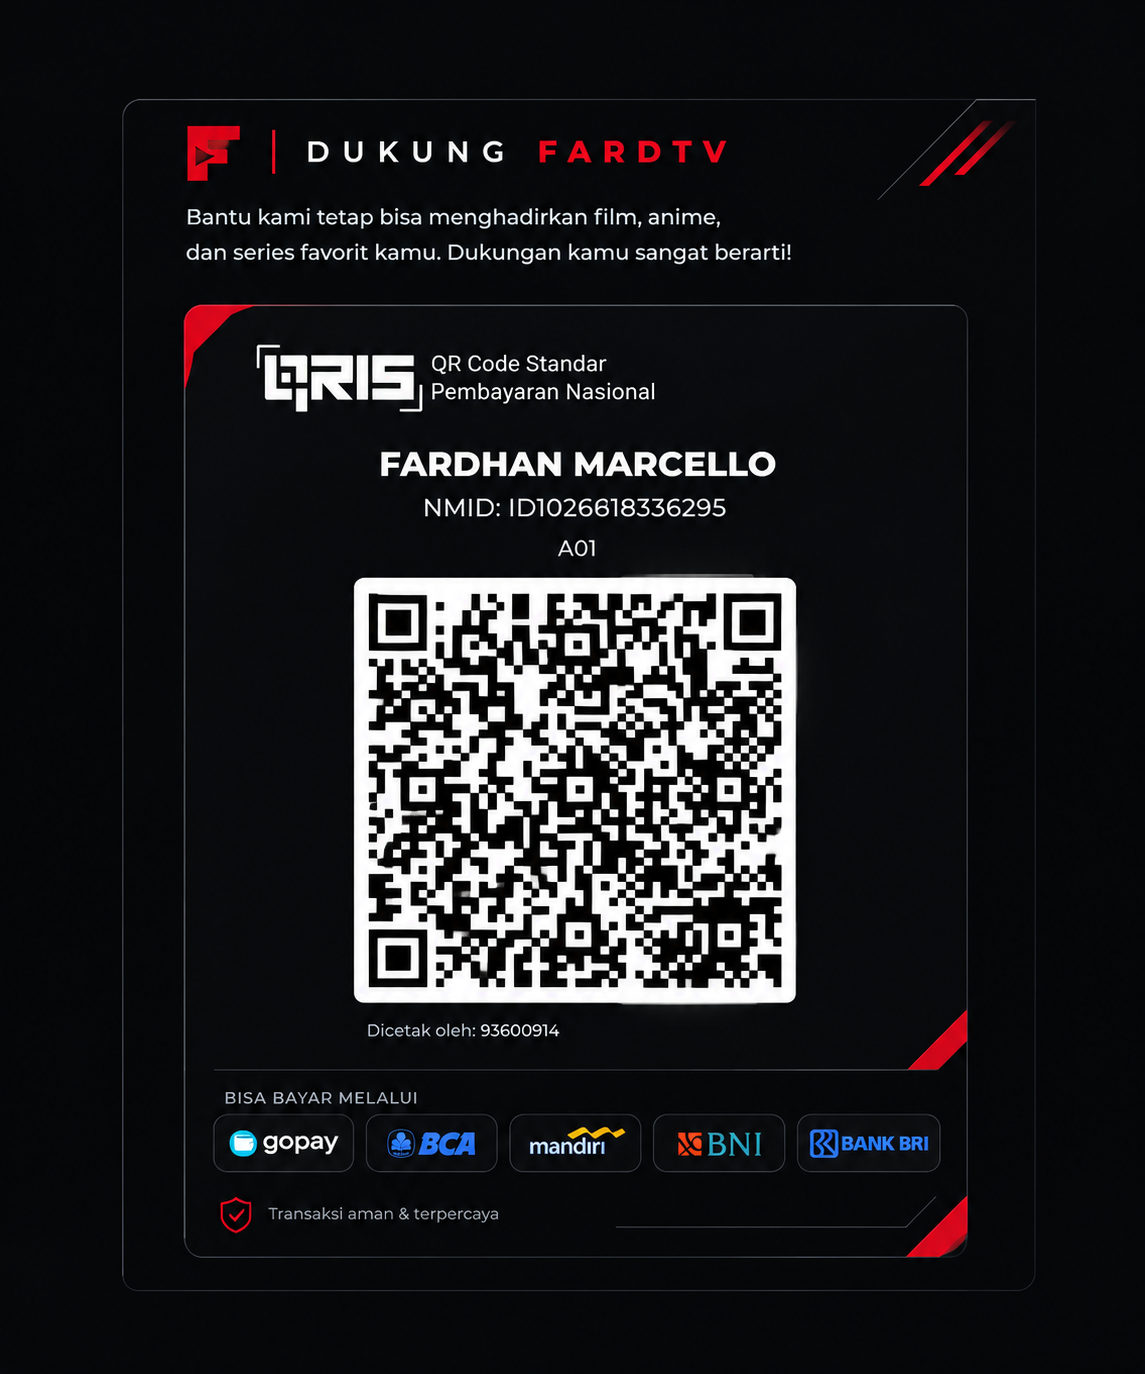
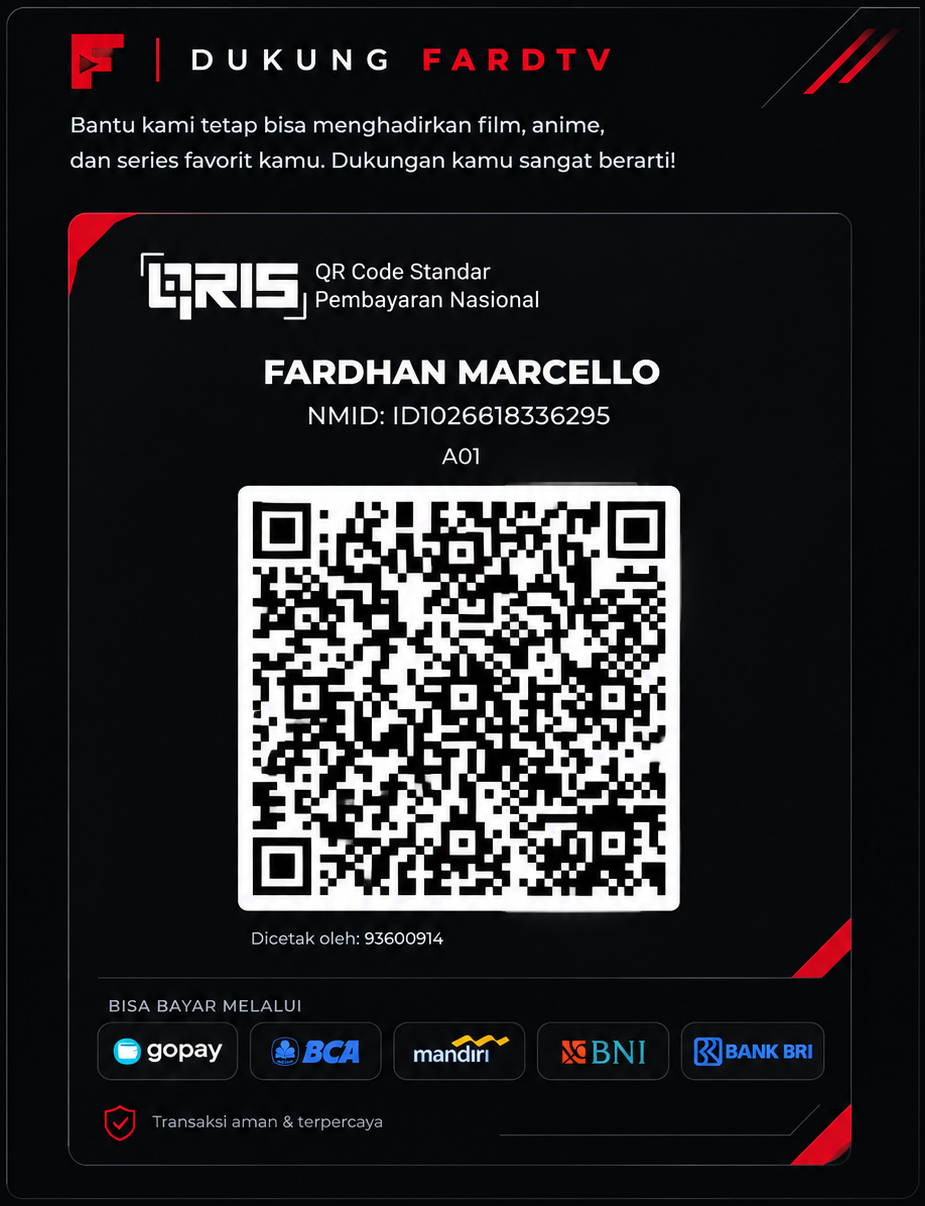
Crop outer dead margins and expand QRIS modal to 620px for large clear display

diff --git a/components/SupportModal.tsx b/components/SupportModal.tsx
@@ -47,17 +47,17 @@ export default function SupportModal() {
       aria-labelledby="support-dialog-title"
     >
       <div
-        className="relative w-full max-w-[420px] sm:max-w-[460px] max-h-[94vh] rounded-2xl bg-[#07080b] border border-white/[0.1] text-white p-2.5 sm:p-3 shadow-2xl my-auto animate-fade-in flex flex-col justify-between"
+        className="relative w-full max-w-[480px] sm:max-w-[560px] md:max-w-[620px] max-h-[96vh] rounded-2xl bg-[#07080b] border border-white/[0.1] text-white p-2.5 sm:p-3.5 shadow-2xl my-auto animate-fade-in flex flex-col justify-between"
         onClick={(e) => e.stopPropagation()}
       >
         {/* Floating Close Button */}
         <button
           type="button"
           onClick={closeSupport}
-          className="absolute top-4 right-4 z-20 p-1.5 rounded-full bg-black/70 hover:bg-black text-zinc-400 hover:text-white transition-colors border border-white/10"
+          className="absolute top-4 right-4 z-20 p-1.5 rounded-full bg-black/75 hover:bg-black text-zinc-400 hover:text-white transition-colors border border-white/10"
           aria-label="Close dialog"
         >
-          <svg width="18" height="18" viewBox="0 0 24 24" fill="none" stroke="currentColor" strokeWidth="2" strokeLinecap="round" strokeLinejoin="round">
+          <svg width="20" height="20" viewBox="0 0 24 24" fill="none" stroke="currentColor" strokeWidth="2" strokeLinecap="round" strokeLinejoin="round">
             <path d="M18 6 6 18M6 6l12 12" />
           </svg>
         </button>
@@ -66,35 +66,35 @@ export default function SupportModal() {
           Support FardTV via QRIS
         </h2>
 
-        {/* QRIS Donation Card Image - Constrained by viewport height so buttons are never cut off */}
-        <div className="relative w-full flex-1 min-h-0 flex items-center justify-center rounded-xl overflow-hidden shadow-xl border border-white/[0.08] bg-[#07080b]">
+        {/* QRIS Donation Card Image - Scaled up for maximum legibility */}
+        <div className="relative w-full flex-1 min-h-0 flex items-center justify-center rounded-xl overflow-hidden shadow-2xl border border-white/[0.08] bg-[#07080b]">
           <Image
             src="/fardtv-qris-donation.png"
             alt="FardTV QRIS Donation Card"
-            width={1145}
-            height={1374}
-            className="w-auto h-auto max-h-[70vh] sm:max-h-[74vh] max-w-full object-contain block select-none rounded-lg"
+            width={925}
+            height={1206}
+            className="w-auto h-auto max-h-[76vh] sm:max-h-[80vh] max-w-full object-contain block select-none rounded-lg"
             priority
           />
         </div>
 
         {/* Action Buttons Row - Pinned with shrink-0 so it is always fully visible */}
-        <div className="grid grid-cols-2 gap-2 mt-2.5 shrink-0">
+        <div className="grid grid-cols-2 gap-2.5 mt-3 shrink-0">
           <button
             type="button"
             onClick={handleCopyNMID}
-            className="w-full py-2.5 px-3 rounded-xl bg-white/[0.08] hover:bg-white/[0.14] border border-white/[0.1] text-xs font-semibold text-white transition-all flex items-center justify-center gap-1.5 cursor-pointer active:scale-95"
+            className="w-full py-3 px-4 rounded-xl bg-white/[0.08] hover:bg-white/[0.14] border border-white/[0.12] text-xs sm:text-sm font-bold text-white transition-all flex items-center justify-center gap-2 cursor-pointer active:scale-95"
           >
             {copied ? (
               <>
-                <svg width="14" height="14" viewBox="0 0 24 24" fill="none" stroke="currentColor" strokeWidth="2.5" className="text-emerald-400">
+                <svg width="15" height="15" viewBox="0 0 24 24" fill="none" stroke="currentColor" strokeWidth="2.5" className="text-emerald-400">
                   <polyline points="20 6 9 17 4 12" />
                 </svg>
                 <span className="text-emerald-400">NMID Copied!</span>
               </>
             ) : (
               <>
-                <svg width="14" height="14" viewBox="0 0 24 24" fill="none" stroke="currentColor" strokeWidth="2">
+                <svg width="15" height="15" viewBox="0 0 24 24" fill="none" stroke="currentColor" strokeWidth="2">
                   <rect width="14" height="14" x="8" y="8" rx="2" ry="2" />
                   <path d="M4 16c-1.1 0-2-.9-2-2V4c0-1.1.9-2 2-2h10c1.1 0 2 .9 2 2" />
                 </svg>
@@ -106,9 +106,9 @@ export default function SupportModal() {
           <a
             href="/fardtv-qris-donation.png"
             download="FARDTV-QRIS-Donation-Card.png"
-            className="w-full py-2.5 px-3 rounded-xl bg-red-600 hover:bg-red-500 text-xs font-semibold text-white transition-all flex items-center justify-center gap-1.5 cursor-pointer text-center active:scale-95 shadow-md shadow-red-950/40"
+            className="w-full py-3 px-4 rounded-xl bg-red-600 hover:bg-red-500 text-xs sm:text-sm font-bold text-white transition-all flex items-center justify-center gap-2 cursor-pointer text-center active:scale-95 shadow-lg shadow-red-950/50"
           >
-            <svg width="14" height="14" viewBox="0 0 24 24" fill="none" stroke="currentColor" strokeWidth="2">
+            <svg width="15" height="15" viewBox="0 0 24 24" fill="none" stroke="currentColor" strokeWidth="2">
               <path d="M21 15v4a2 2 0 0 1-2 2H5a2 2 0 0 1-2-2v-4" />
               <polyline points="7 10 12 15 17 10" />
               <line x1="12" y1="15" x2="3" />
